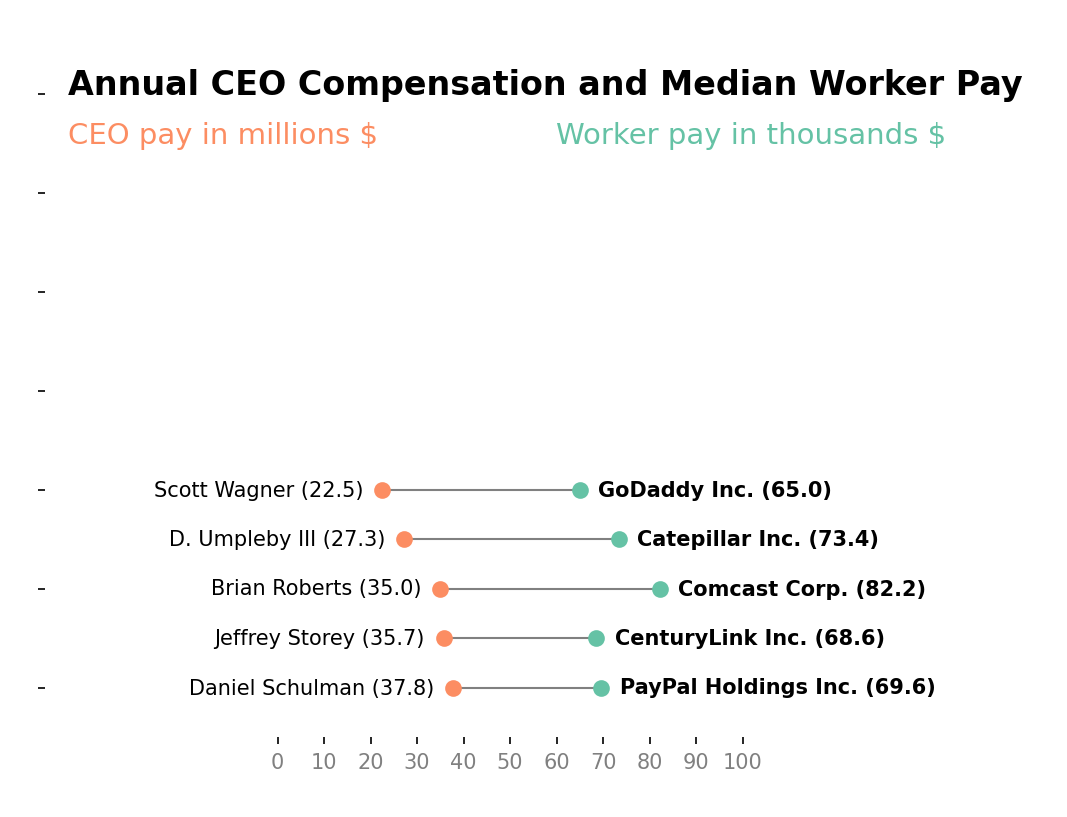
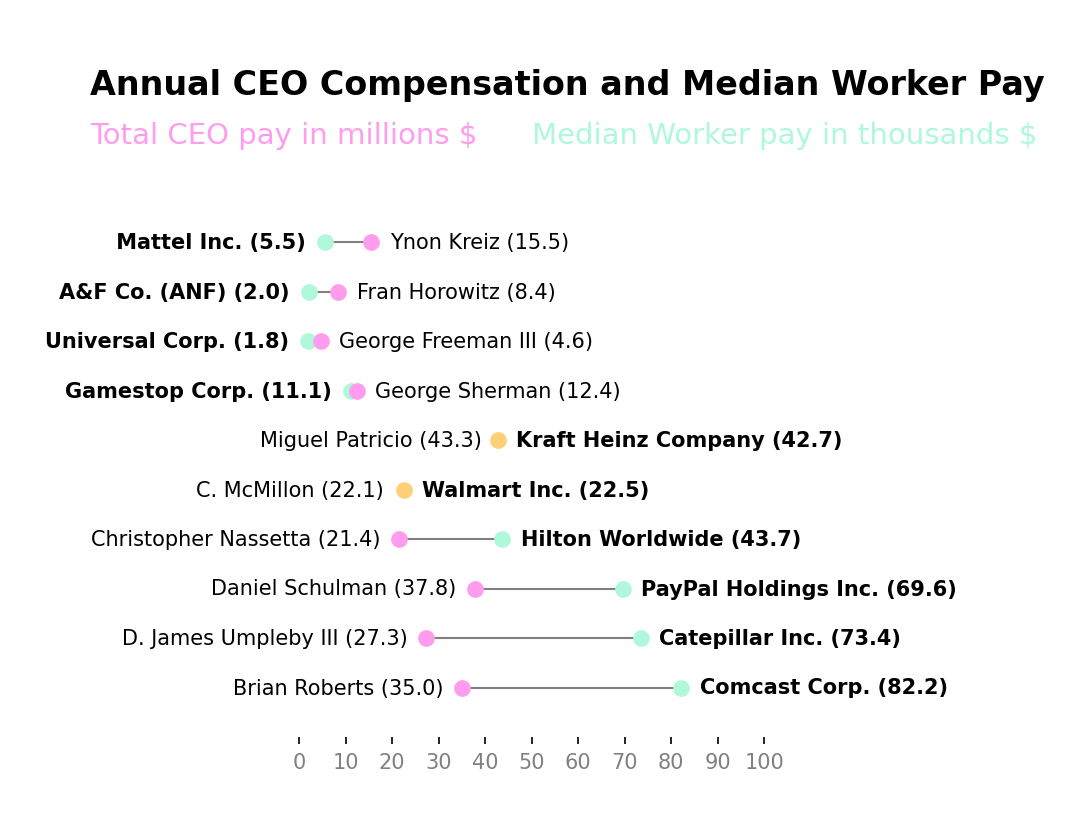
nested bar added, removed main

diff --git a/plots/ding_an_sich_plot.py b/plots/ding_an_sich_plot.py
@@ -1,7 +1,22 @@
 import matplotlib.pyplot as plt
-import numpy as np
 import pandas as pd
 import math
+import os
+import matplotlib as mpl
+mpl.rcParams['figure.dpi'] = 300
+
+# https://stackoverflow.com/questions/3899980/how-to-change-the-font-size-on-a-matplotlib-plot
+SMALL_SIZE = 6
+MEDIUM_SIZE = 10
+BIGGER_SIZE = 12
+
+plt.rc('font', size=SMALL_SIZE)          # controls default text sizes
+plt.rc('axes', titlesize=SMALL_SIZE)     # fontsize of the axes title
+plt.rc('axes', labelsize=MEDIUM_SIZE)    # fontsize of the x and y labels
+plt.rc('xtick', labelsize=SMALL_SIZE)    # fontsize of the tick labels
+plt.rc('ytick', labelsize=SMALL_SIZE)    # fontsize of the tick labels
+plt.rc('legend', fontsize=SMALL_SIZE)    # legend fontsize
+plt.rc('figure', titlesize=BIGGER_SIZE)  # fontsize of the figure title
 
 def mirror_numbers_graphing(n, factor, mid, width):
     # https://stackoverflow.com/questions/38130895/find-middle-of-a-list/38131003
@@ -26,9 +41,7 @@ def mirror_numbers_graphing(n, factor, mid, width):
             acc += 1
         return fudge_array_minus[::-1] + fudge_array_plus
 
-# Ding an sich graph
 # https://stackoverflow.com/questions/8047152/how-do-you-create-a-nested-bar-graph
-
 def ding_an_sich_plot(df, width=0.9):
 
     list_columns = df.columns.tolist()
@@ -65,39 +78,14 @@ def ding_an_sich_plot(df, width=0.9):
 
     plt.xticks(graph_locs, graph_labs, rotation=90)
 
-    plt.show()
+    return plt
 
 def subplot_locations(fudge_factor, index, cat_len, width):
     y = mirror_numbers_graphing(cat_len, fudge_factor, index, width)
     return [x for x in y]
 
-if __name__ == '__main__':
-
-    data = [
-        ['bananas', 'fruits', 10, '#FFE135'],
-        ['oranges', 'fruits', 15, '#FFA500'],
-        ['tomatoes', 'vegetables', 14, '#FF6347'],
-        ['onions', 'vegetables', 11, '#CFB59B'],
-        ['cucumbers', 'vegetables', 8, '#284400'],
-        ['meat', 'meat', 15, '#000000'],
-        ['cod', 'fish', 12, '#008866'],
-        ['sole', 'fish', 11, '#D38866'],
-        ['tilapia', 'fish', 14, '#008833'],
-        ['snapper', 'fish', 13, '#008833'],
-        ['chicken', 'eggs', 2, '#557766'],
-        ['lizard', 'eggs', 1, '#338866'],
-        ['snake', 'eggs', 4, '#003233'],
-        ['fish', 'eggs', 3, '#008888'],
-        ['platypus', 'eggs', 7, '#001234'],
-        ['snapper', 'test', 8, '#008833'],
-        ['chicken', 'test', 9, '#557766'],
-        ['lizard', 'test', 6, '#338866'],
-        ['snake', 'test', 7, '#003233'],
-        ['fish', 'test', 8, '#008888'],
-        ['platypus', 'test', 8, '#001234'],
-        ['octaves', 'test', 8, '#002222'],
-        ['plagues', 'test', 8, '#005234']
-    ]
-
-    df = pd.DataFrame(data, columns = ['Label', 'Category', 'Amount', 'Color'])
-    ding_an_sich_plot(df)
+def save_figure(fig, output_dir, filename, pad_inches=0.3):
+    fig.savefig(os.path.join(output_dir, filename),
+                # dpi=fig.dpi,
+                bbox_inches='tight',
+                pad_inches=pad_inches)

diff --git a/plots/pair_dot_plot.py b/plots/pair_dot_plot.py
@@ -53,7 +53,7 @@ def dot_pair_plot(
     plt.ylim([-1, 13])
     plt.xlim([-50, 150])
     plt.xticks(range(0,101,10), color='gray')
-    ax.set_yticklabels('')
+    plt.yticks([])
 
     plt.text(-45, 12, title,
              horizontalalignment='left',
@@ -61,11 +61,11 @@ def dot_pair_plot(
              weight='bold')
     plt.text(-45, 11, first_label,
              horizontalalignment='left',
-             color=colors[0],
-             size=14)
-    plt.text(60, 11, second_label,
-             horizontalalignment='left',
              color=colors[1],
+             size=14)
+    plt.text(50, 11, second_label,
+             horizontalalignment='left',
+             color=colors[0],
              size=14)
 
     return fig
@@ -83,17 +83,3 @@ def save_figure(fig, output_dir, filename, pad_inches=0.3):
                 dpi=fig.dpi,
                 bbox_inches='tight',
                 pad_inches=pad_inches)
-
-if __name__ == '__main__':
-    # Example:
-    # https://aflcio.org/paywatch/highest-paid-ceos
-    # https://aflcio.org/paywatch/company-pay-ratios
-    df = pd.read_csv('/home/rincon/Desktop/data.csv')
-    output_dir = make_output_dir('/home/rincon/Desktop/data_dir')
-    fig = dot_pair_plot(df,
-      'Annual CEO Compensation and Median Worker Pay',
-      'CEO pay in millions $',
-      'Worker pay in thousands $',
-      colors=['#FF00FF', '#40E0D0', '#FFDF00']
-    )
-    save_figure(fig, output_dir, 'test.png')

diff --git a/plots/bar_and_datapoints_plot.py b/plots/bar_and_datapoints_plot.py
@@ -19,21 +19,4 @@ def bar_and_data_plot(x, y, output_path, tick_labels, bar_width=0.5, bar_colors=
     for i in range(len(x)):
         ax.scatter(x[i] + np.random.random(y[i].size) * bar_width - bar_width / 2, y[i], color='black', zorder=99)
 
-    # plt.show()
     plt.savefig(output_path)
-
-if __name__ == '__main__':
-    bar_width = 0.5
-    bar_coordinates = [1, 2]
-    colors = ['#FC8D62','#65C2A5']
-    tick_labels = ["control", "test"]
-    data = [np.random.random(30) * 2 + 5, np.random.random(10) * 3 + 8]
-    bar_and_data_plot(
-        bar_coordinates,
-        data,
-        'bar_points.png',
-        tick_labels= tick_labels,
-        bar_width=bar_width,
-        bar_colors=colors,
-        edge_colors=None
-    )

diff --git a/plots/consumer_reports_plot.py b/plots/consumer_reports_plot.py
@@ -65,12 +65,3 @@ def yaxis_coords(number_of_subplots):
     first = -0.07 - (0.01 * number_of_subplots)
     second = 0.55 - (0.1 * number_of_subplots)
     return (first, second)
-
-if __name__ == "__main__":
-    cars = ['Toyota Corrola', 'Toyota Camry', 'Toyota Prius']
-    years = [2015, 2016, 2017, 2018, 2019, 2020]
-    samps = np.array([[0, 0, 0, 5000, 7000, 10000],
-                    [0, 0, 5000, 7000, 9000, 12000],
-                    [7000, 9000, 11000, 13000, 15000, 16000]]
-            )
-    cr_plot(samps, cars, years, 'car_tester.png', colormap='viridis', title='Used \ car \ price')

diff --git a/README.md b/README.md
@@ -148,19 +148,26 @@ import pair_dot_plot as dot
 import pandas as pd
 '''
 data.csv:
-69.6,37.8,PayPal Holdings Inc.,Daniel Schulman
-68.6,35.7,CenturyLink Inc.,Jeffrey Storey
+Median Worker Salary,CEO Salary,Entity,CEO
 82.2,35.0,Comcast Corp.,Brian Roberts
-73.4,27.3,Catepillar Inc.,D. Umpleby III
-65.0,22.5,GoDaddy Inc.,Scott Wagner
+73.4,27.3,Catepillar Inc.,D. James Umpleby III
+69.6,37.8,PayPal Holdings Inc.,Daniel Schulman
+43.7,21.4,Hilton Worldwide,Christopher Nassetta
+22.5,22.1,Walmart Inc.,C. McMillon
+42.7,43.3,Kraft Heinz Company,Miguel Patricio
+11.1,12.4,Gamestop Corp.,George Sherman
+1.8,4.6,Universal Corp.,George Freeman III
+2.0,8.4,A&F Co. (ANF),Fran Horowitz
+5.5,15.5, Mattel Inc.,Ynon Kreiz
 '''
 
 df = pd.read_csv('/home/username/data.csv', header=None)
 output_dir = dot.make_output_dir('/home/username/data_dir')
 fig = dot.dot_pair_plot(df,
   'Annual CEO Compensation and Median Worker Pay',
-  'CEO pay in millions $',
-  'Worker pay in thousands $'
+  'Total CEO pay in millions $',
+  'Median Worker pay in thousands $',
+  colors=['#AFF8DB', '#FF9CEE', '#FDCF76']
 )
 dot.save_figure(fig, output_dir, 'test.png')
 ```
@@ -199,3 +206,51 @@ bdp.bar_and_data_plot(
 
 ### Plot:
 ![](output/bar_points.png)
+
+
+## ding_an_sich_plot.py
+
+Nested bar graph.
+
+Depends on:
+- [Pandas](https://pandas.pydata.org/)
+- [Matplotlib](https://matplotlib.org/)
+
+### Usage
+
+```python
+import ding_an_sich_plot as das
+
+data = [
+    ['bananas', 'fruits', 10, '#FFE135'],
+    ['oranges', 'fruits', 15, '#FFA500'],
+    ['tomatoes', 'vegetables', 14, '#FF6347'],
+    ['onions', 'vegetables', 11, '#CFB59B'],
+    ['cucumbers', 'vegetables', 8, '#284400'],
+    ['meat', 'meat', 15, '#000000'],
+    ['cod', 'fish', 12, '#008866'],
+    ['sole', 'fish', 11, '#D38866'],
+    ['tilapia', 'fish', 14, '#008833'],
+    ['snapper', 'fish', 13, '#008833'],
+    ['chicken', 'eggs', 2, '#557766'],
+    ['lizard', 'eggs', 1, '#338866'],
+    ['snake', 'eggs', 4, '#003233'],
+    ['fish', 'eggs', 3, '#008888'],
+    ['platypus', 'eggs', 7, '#001234'],
+    ['snapper', 'test', 8, '#008833'],
+    ['chicken', 'test', 9, '#557766'],
+    ['lizard', 'test', 6, '#338866'],
+    ['snake', 'test', 7, '#003233'],
+    ['fish', 'test', 8, '#008888'],
+    ['platypus', 'test', 8, '#001234'],
+    ['octaves', 'test', 8, '#002222'],
+    ['plagues', 'test', 8, '#005234']
+]
+
+df = pd.DataFrame(data, columns = ['Label', 'Category', 'Amount', 'Color'])
+plotted = das.ding_an_sich_plot(df)
+das.save_figure(p, '/home/username/output_dir', 'nested.png')
+```
+
+### Plot:
+![](output/nested.png)
